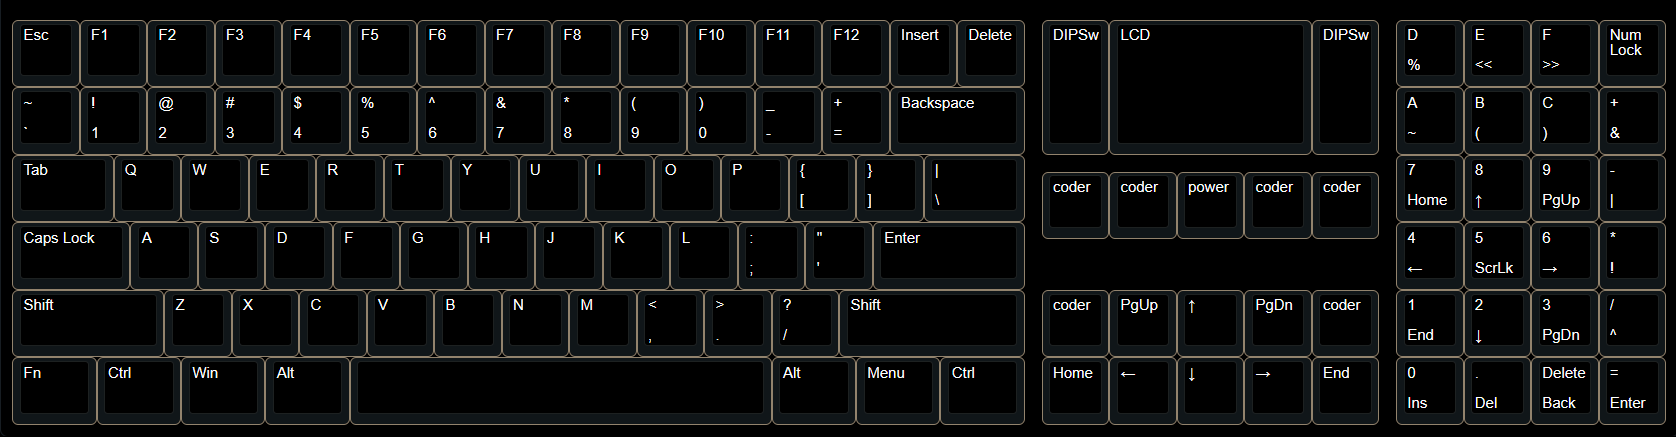
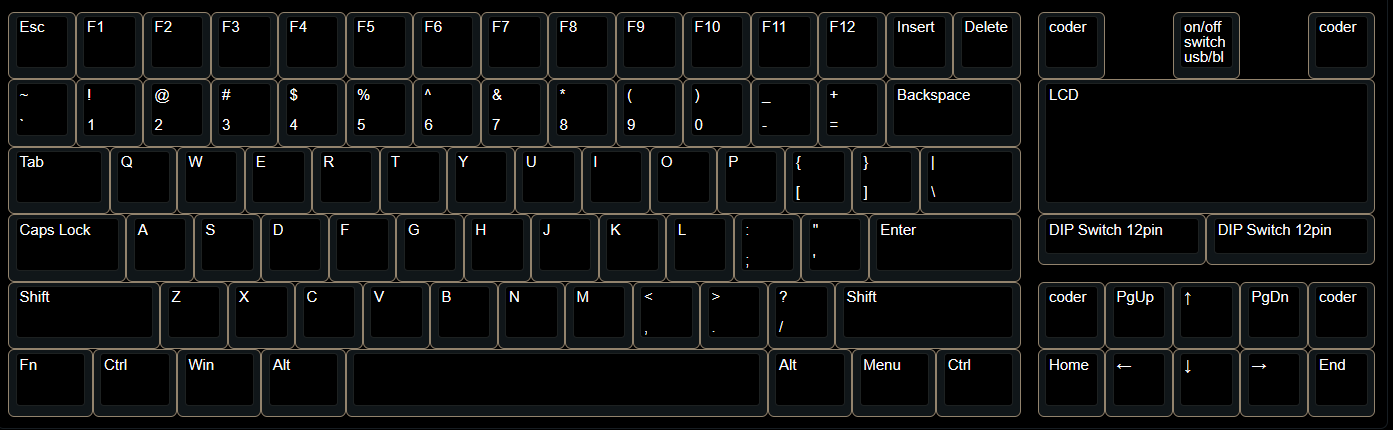
update

diff --git a/README.md b/README.md
@@ -1,6 +1,81 @@
  # DIYkeyboard
 
+在键盘能使用的情况下使用串口终端?
+85 key rgb lde 2ms delay 10ms
+
+键盘下侧添加接口外接?
+
+可二次开发， 内部编程的键盘
+
+## 键盘布局
+
 ![layout](img/layout.png)
+
+## 键盘拓扑模块
+
+![module](img/a.png)
+
+### 上侧模块
+
+接口：
+* USB 3.0 USB HUB
+* GPIO
+* SPI
+* UART
+
+硬件：
+* USB 3.0接口
+* 弹簧针触点
+
+模块：
+* GOIO开发拓扑
+* USB HUB
+
+### 左侧模块
+
+接口：
+* USB 3.0 USB HUB
+* SPI
+* UART
+
+硬件：
+* 弹簧针触点
+
+模块：
+* 智能旋钮
+* USB HUB
+
+### 下侧模块
+
+接口：
+* USB 3.0 USB HUB
+* SPI
+* UART
+
+硬件：
+* 弹簧针触点
+
+模块：
+* 触摸板
+* USB HUB
+* 外接电池
+
+### 右侧模块
+
+接口：
+* USB 2.0 连接单片机
+* SPI
+* UART
+
+硬件：
+* 弹簧针触点
+
+模块：
+* 十六进制小键盘
+
+## 键盘拓扑模块走线
+
+![port](img/b.png)
 
 ## 硬件
 * AT32F435ZMT7
@@ -8,15 +83,17 @@
 * SD卡
 * 74HC165
 * ST7789
+* 磁轴?
 * USB 3.0 HUB GL3520
 * 编码器
 * 拨码管 12pin*2
 * 磁连接触点 (SPI&uart， 四个方向)
 * 电池管理电路
 * RTC电路
-* RGB灯
+* RGB灯 WS2812
 * usb type-c (偏右侧靠近芯片)
 * 蓝牙模块 (暂时没有选型)
+* 旋钮开关
 
 ## 驱动
 * [ ] lcd
@@ -32,12 +109,15 @@
 * rtthread
     * ulog
     * C++
+    * ymodem
 * eazyFlash
+* pikaScript
 
 ## 功能
 
 * [ ] bootloader
 * [ ] HID协议
+    * 鼠标和键盘通用?
     * USB HID
     * BLE HID
     * HID 媒体
@@ -46,7 +126,6 @@
     * 读取文件自定义映射
     * 适配vim功能
     * 密码管理
-* [ ] 侧边拓扑模块接口
 * [ ] 轻量级运行时
     * 内存分配
     * 指令读取
@@ -57,22 +136,20 @@
     * 键盘映射文件（编译过）
 * [ ] 键盘一键启软件 *
 * [ ] 电源管理
-* [ ] 扩展连接协议(四相通用)
-    * 十六进制小键盘 右
-    * USB HUB 上
-    * 触摸板 右
-    * 触摸条 下
-    * 多功能旋钮 左
+* [ ] 侧边拓扑模块接口
+    * 扩展连接通信协议(四相通用)
 * 按键录制
 
 ## 工具软件
-* [ ] 脚本编译器
+* [ ] ~~脚本编译器~~
     * 前期终端编译
     * 后期QT图形界面
     * JSON结构
     * 编译运行脚本
     * 编译映射文件
     * 输出特定格式二进制文件
+
+
 
 
 
